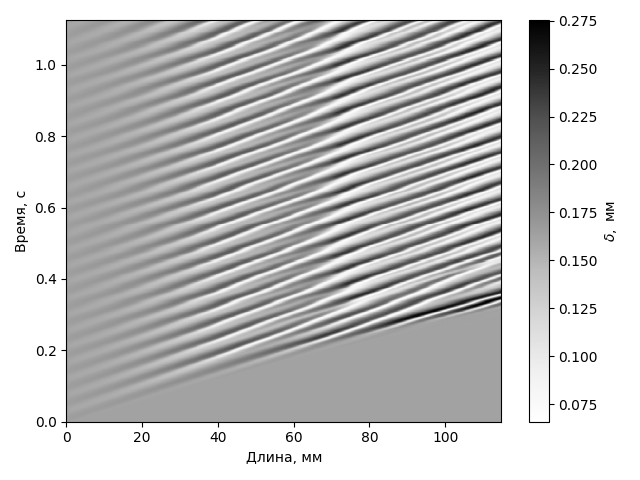
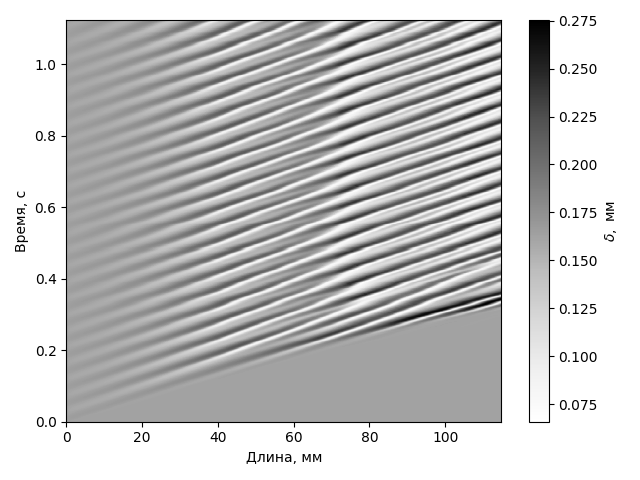
v4 normalize Kapitsa

Changed region(s): [[0.375, 0.0312, 0.7812, 0.7188], [0.0625, 0.25, 0.0938, 0.3125], [0.4375, 0.375, 0.4688, 0.4062]]

diff --git a/processing_part1.py b/processing_part1.py
@@ -38,7 +38,7 @@ from numpy.fft import fft2, fftshift, fftfreq
 
 nx_max = 1500
 ny_max = 60
-v = 3
+v = 4
 dt_step = 0.001
 x_frac_start = 0.3 
 x_frac_end = 0.8
